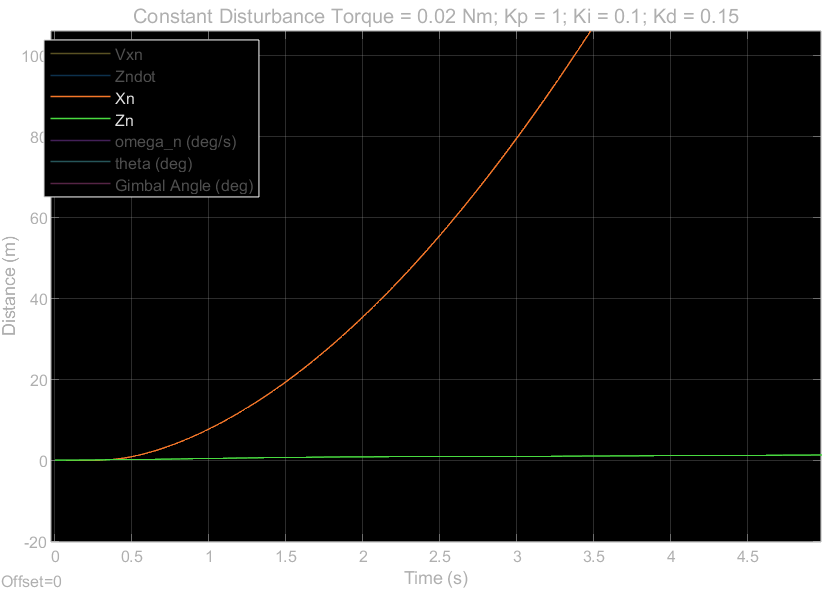
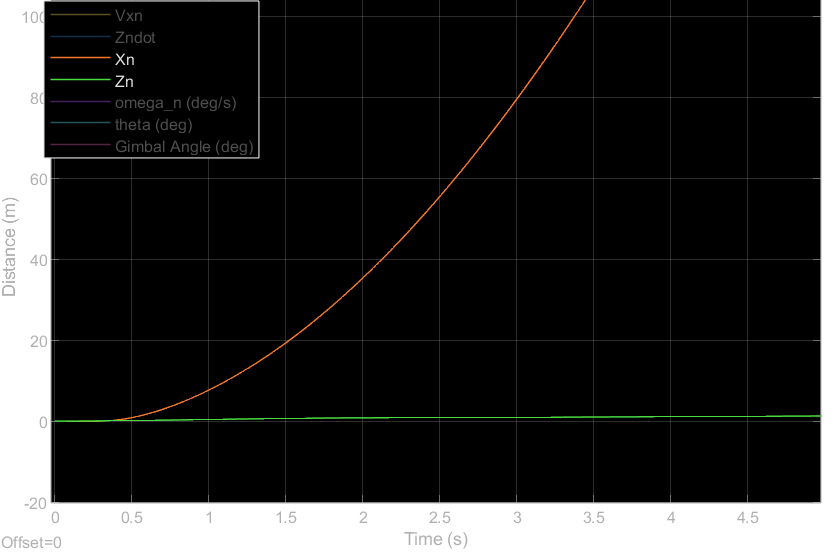
Day 7 Complete
Deliverable, notes, and Simulink model updated.

diff --git a/Deliverables/Day 6/Day 6 Deliverable PID Tuning Study.md b/Deliverables/Day 6/Day 6 Deliverable PID Tuning Study.md
@@ -1,0 +1,106 @@
+# Day 6 Deliverable: 3DoF PID Tuning Study
+
+Scratch-made discrete PID controller modeling a rocket.
+
+Goal: vertical flight path ($\theta = 0 \degree$)
+
+Assumptions:
+
+- Constant Mass
+
+- Instant Actuator Response
+
+- Perfect Sensor Data
+
+| Parameters                               | Value                  |
+| ---------------------------------------- | ---------------------- |
+| Vehicle Motor                            | Estes F15              |
+| Mass: $m$                                | $0.543 \space kg$      |
+| Moment of Inertia $I$                    | $0.048 \space kg  m^2$ |
+| Arm from Gimbal to CG $L_g$              | $0.28 \space m$        |
+| Maximum Gimbal Deflection $\delta_{max}$ | $5 \degree$            |
+| Sampling Rate ${T_s}^{-1}$               | $100 \space Hz$        |
+
+See 3DOF_Sim.slx for Simulink Model.
+
+## Test 1: Initial Offset
+
+$\theta_0 = 5 \degree$
+
+![](C:\Users\C27Derek.Weissinger\OneDrive%20-%20USAFA%20(AFAcademy.AF.edu)\Documents\Classes\Summer%2026\Astro%20499\Derek-Weissinger-GNC-Methods-2026\Deliverables\Day%206\files\Theta0=5.png)
+
+- $K_p = 1$; $K_i = 0$, $K_d = 0.15$.
+
+- $\theta$ rapidly approaches $0$ and stays there.
+
+- $\delta$ shows no noisy or jittery behavior.
+
+## Test 2: Initial Offset and Constant Disturbance Torque
+
+$\theta_0 = 3 \degree$, $\tau = 0.02 \space Nm$.
+
+![](C:\Users\C27Derek.Weissinger\OneDrive%20-%20USAFA%20(AFAcademy.AF.edu)\Documents\Classes\Summer%2026\Astro%20499\Derek-Weissinger-GNC-Methods-2026\Deliverables\Day%206\files\Initial%20Offset%20and%20Constant%20Torque.png)
+
+- $K_p = 2$; $K_i = 0.01$, $K_d = 0.15$.
+
+- $\theta$ rapidly approaches 0, slightly $(\approx 0.2 \degree) $ overshoots but $K_i$ term fixes flightpath
+  
+  - Any further increase in $K_i$ increases overshoot, decrease makes controller unable to account for constant torque.
+
+- Slight jittery behavior in $\delta$ at $t \approx 0.1-0.2 \space s$, would likely be smoothed out by implementing servo transfer functions.
+
+## Test 3: Initial Offset and Random Disturbance Torque
+
+$\theta_0 = 3 \degree$, $\tau$ is random between $0.01 \space Nm$ and $-0.01 \space Nm$ with mean of $0$, sampled every $0.1 \space s$.
+
+![](C:\Users\C27Derek.Weissinger\OneDrive%20-%20USAFA%20(AFAcademy.AF.edu)\Documents\Classes\Summer%2026\Astro%20499\Derek-Weissinger-GNC-Methods-2026\Deliverables\Day%206\files\Initial%20Offset%20and%20Random%20Torque.png)
+
+- $K_p = 2$; $K_i = 0.01$, $K_d = 0.15$.
+
+- Controller is able to keep $\theta$ between $1$ and $-1$ after initial correction.
+
+- Gimbal reaches saturation limit after $t = 3.4 \space s$, this is due to loss of control authority after motor burnout at $t = 3.3 \space s$.
+
+#### Test 3 Trajectory View
+
+
+
+![](C:\Users\C27Derek.Weissinger\OneDrive%20-%20USAFA%20(AFAcademy.AF.edu)\Documents\Classes\Summer%2026\Astro%20499\Derek-Weissinger-GNC-Methods-2026\Deliverables\Day%206\files\Initial%20Offset%20and%20Random%20Torque%20Xn%20and%20Zn.png)
+
+- Despite seeming jitteriness due to random $\tau$, the flight path is still overall vertical, with only slight movement in the z-axis.
+
+#### Overall Tuning Table
+
+| Test # | $K_p$ | $K_i$ | $K_d$ |
+| ------ | ----- | ----- | ----- |
+| 1      | 1     | 0     | 0.15  |
+| 2      | 2     | 0.01  | 0.15  |
+| 3      | 2     | 0.01  | 0.15  |
+
+## Failure Modes
+
+#### Excessive $K_p$ Failure
+
+![](C:\Users\C27Derek.Weissinger\OneDrive%20-%20USAFA%20(AFAcademy.AF.edu)\Documents\Classes\Summer%2026\Astro%20499\Derek-Weissinger-GNC-Methods-2026\Deliverables\Day%206\files\High%20Kp%20Failure.png)
+
+- $K_p = 0.2$; $K_i = 0$, $K_d = 0$.
+
+- Oscillation around target point, as expected. This would happen for any $K_p$ in the absence of $K_d$ or $K_i$ terms.
+
+#### Excessive $K_i$ Failure
+
+![](C:\Users\C27Derek.Weissinger\OneDrive%20-%20USAFA%20(AFAcademy.AF.edu)\Documents\Classes\Summer%2026\Astro%20499\Derek-Weissinger-GNC-Methods-2026\Deliverables\Day%206\files\High%20Ki%20Failure.png)
+
+- $K_p = 1$; $K_i = 0.1$, $K_d = 0.15$.
+
+- We see oscillation due to windup, as the $K_i$ term stores too much correction.
+
+#### Excessive $K_d$ Failure
+
+![](C:\Users\C27Derek.Weissinger\OneDrive%20-%20USAFA%20(AFAcademy.AF.edu)\Documents\Classes\Summer%2026\Astro%20499\Derek-Weissinger-GNC-Methods-2026\Deliverables\Day%206\files\High%20Kd%20Failure.png)
+
+- $K_p = 2$; $K_i = 0.1$, $K_d = 4$.
+
+- Due to the random disturbance, excessive noise is brought into the $\delta$, causing wildly unrealistic swings. $\theta$, however, remains surprisingly stable.
+
+Documentation: I used the Simulink Onramp to figure out how to model the $K_i$ term.

diff --git a/Deliverables/Day 7/Day 7 Deliverable Actuator Lag and PID Corrections.md b/Deliverables/Day 7/Day 7 Deliverable Actuator Lag and PID Corrections.md
@@ -1,0 +1,75 @@
+# Day 7 Deliverable: Actuator Lag and PID Corrections
+
+## Test 1: Discretization, no Tuning Change
+
+- Although the I and D terms were already technically discrete* with unit holds, I used a zero-order hold at the beginning of the controller to force all terms to be discrete in the same way. 
+  
+  - The I and D terms were computed continuously, but with the discrete method (e.g. summation for I, slope of 2 points for D)
+
+![](C:\Users\C27Derek.Weissinger\OneDrive%20-%20USAFA%20(AFAcademy.AF.edu)\Documents\Classes\Summer%2026\Astro%20499\Derek-Weissinger-GNC-Methods-2026\Deliverables\Day%207\files\Discreteized%20Controller%20No%20Gain%20Mod.png)
+
+- Same conditions and weights as Day 6 controller ($K_p = 2$; $K_i = 0.01$, $K_d = 0.15$; $\theta_0 = 3 \degree$, $\tau$ is random between $0.01 \space Nm$ and $-0.01 \space Nm$ with mean of $0$, sampled every $0.1 \space s$).
+
+- Frequency: $f = 100 \space Hz$.
+
+- No meaningful difference in control ability after discretization.
+
+- After playing with all 3 gains, no substantially better tuning pattern was found, leading me to conclude, for this scenario, that the current gains are suitable.
+
+## Test 2: Sampling Frequency Study
+
+Keeping the same gains and initial conditions, tests were conducted reducing the sampling frequency to find when instability would occur.
+
+#### $50 \space Hz$
+
+![](C:\Users\C27Derek.Weissinger\OneDrive%20-%20USAFA%20(AFAcademy.AF.edu)\Documents\Classes\Summer%2026\Astro%20499\Derek-Weissinger-GNC-Methods-2026\Deliverables\Day%207\files\50Hz.png)
+
+#### $25 \space Hz$
+
+![](C:\Users\C27Derek.Weissinger\OneDrive%20-%20USAFA%20(AFAcademy.AF.edu)\Documents\Classes\Summer%2026\Astro%20499\Derek-Weissinger-GNC-Methods-2026\Deliverables\Day%207\files\25Hz.png)
+
+#### $15 \space Hz$
+
+![](C:\Users\C27Derek.Weissinger\OneDrive%20-%20USAFA%20(AFAcademy.AF.edu)\Documents\Classes\Summer%2026\Astro%20499\Derek-Weissinger-GNC-Methods-2026\Deliverables\Day%207\files\15Hz.png)
+
+#### $10 \space Hz$
+
+![](C:\Users\C27Derek.Weissinger\OneDrive%20-%20USAFA%20(AFAcademy.AF.edu)\Documents\Classes\Summer%2026\Astro%20499\Derek-Weissinger-GNC-Methods-2026\Deliverables\Day%207\files\10Hz.png)
+
+- The system's stability steadily decreases, with divergence happening soon after $15 \space Hz$
+
+## Test 3: Windup Clampdown Study
+
+Initial condtions changed to $\theta_0 = 45 \degree$, no disturbance torque.
+
+#### No Windup Protection
+
+![](C:\Users\C27Derek.Weissinger\OneDrive%20-%20USAFA%20(AFAcademy.AF.edu)\Documents\Classes\Summer%2026\Astro%20499\Derek-Weissinger-GNC-Methods-2026\Deliverables\Day%207\files\Windup%20No%20Clamping.png)
+
+- The integrator term quickly looses control of $\theta$, causing massive, destabilizing oscillations.
+
+#### Windup Clamping Protection
+
+![](C:\Users\C27Derek.Weissinger\OneDrive%20-%20USAFA%20(AFAcademy.AF.edu)\Documents\Classes\Summer%2026\Astro%20499\Derek-Weissinger-GNC-Methods-2026\Deliverables\Day%207\files\Windup%20Clamping%20Demo.png)
+
+- The controller is able to right itself and bring $\theta \approx 0 \degree$ before the motor burns out, proving the importance of making sure the I term has windup protection.
+
+- A simple clamping algorithm was used, checking both if the maximum gimbal angle was reached ($\delta > 5 \degree$) *and* if the I term and $\delta$ have the same sign. If that is the case, the I term ceases to change until one of the conditions become false.
+
+## Test 4: Actuator Lag / Rate Limits
+
+- Using data provided at: [Micro Servo - Blue Bird Model](https://www.blue-bird-model.com/products_detail/73.htm)
+
+- Servo lag was modeled at $0.01 \space s$.
+
+- Servo maximum rate was modeled as $60 \degree / \space 0.08 \space s$.
+
+- Servo saturation was already modeled from Day 5.
+
+- No noticable difference in the controller was observed.
+
+
+
+Documentation: No outside help was received.
+
+

diff --git a/Day Logs/Week 1 Log.md b/Day Logs/Week 1 Log.md
@@ -1,4 +1,4 @@
-# Day 1 (11 - 13 July) Log
+# Week 1 (11-17 July) Log
 
 ## 11 July
 
@@ -129,4 +129,24 @@ Approximate Time Spent: 6 hours.
 
 - Took notes on [Understanding PID Control](https://www.youtube.com/playlist?list=PLn8PRpmsu08pQBgjxYFXSsODEF3Jqmm-y), videos 2-4.
 
-Approximate time spent: 5.5 hours.
+- Skimmed [Ziegler–Nichols method - Wikipedia](https://en.wikipedia.org/wiki/Ziegler%E2%80%93Nichols_method)
+
+#### Day 7
+
+- The "[Discrete control / sampling and the zero-order hold](https://www.youtube.com/watch?v=fusr9eTceEo) — Brian Douglas (the clearest short explanation of why sampling adds phase lag and destabilizes loops)."  is a complete AI hallucination, the link leads to a PID hardware demo, which is still good.
+- Took notes on the Day 7 readings.
+- Skimmed some parts of  [Improving the Beginner's PID.](http://brettbeauregard.com/blog/2011/04/improving-the-beginners-pid-introduction/)
+- Added non-idealisms to PID model, such as actuator lag and discretization (see Day 7 deliverable).
+- Added I term Windup protection.
+- Read https://lastminuteengineers.com/servo-motor-arduino-tutorial/, learning how servos actually work and how they interface with microcontrollers.
+- Created Day 7 Deliverable detailing all changes made to controller.
+
+Approximate time spent: 8.5 hours.
+
+
+
+## 16 July
+
+- Watch remaining (5-7) [Understanding PID Control - YouTube](https://www.youtube.com/playlist?list=PLn8PRpmsu08pQBgjxYFXSsODEF3Jqmm-y)
+
+#### Day 8